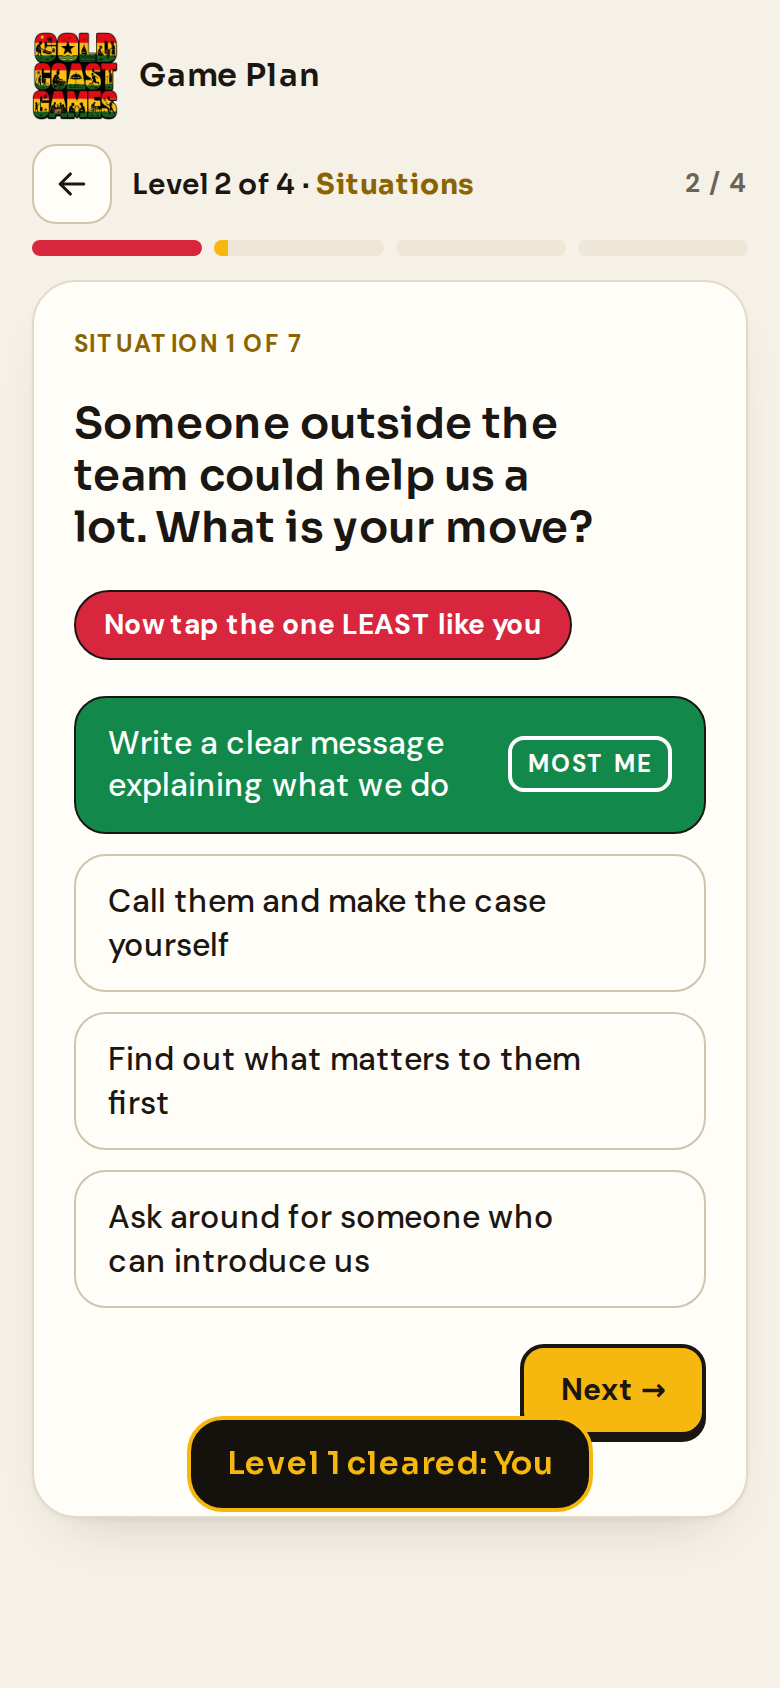
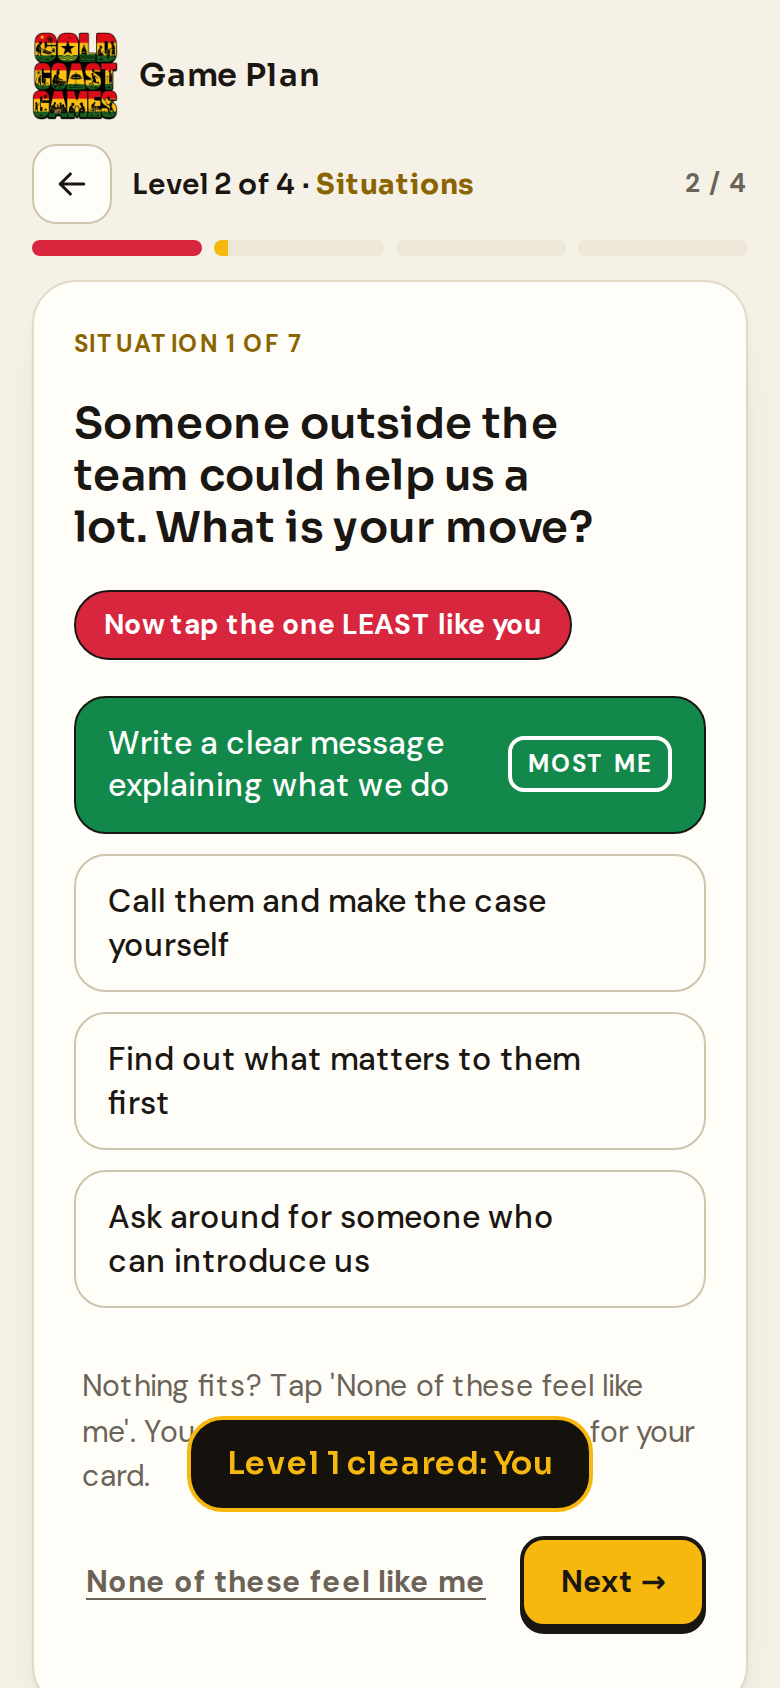
Situations: 'None of these feel like me' skip; card needs four of seven
Claude-Session: https://claude.ai/code/session_01JE2q3PibkVT4seoSptK9bV

Changed region(s): [[0.0615, 0.8009, 0.9538, 0.9858], [0.4308, 0.7701, 0.9231, 0.8626], [0.0308, 0.8626, 0.0615, 0.8934]]

diff --git a/gcg-game-plan.html b/gcg-game-plan.html
@@ -1125,6 +1125,7 @@ var SCORE={top:5,good:3,curious:1};
 var ITEMS=[["A new project is about to start. What do you do first?", [["Meet everyone involved and make sure they feel included", "welcome"], ["Set up the tools and check that everything works", "fix"], ["Write down who does what and by when", "organise"], ["Get people excited about it", "host"]]], ["Someone outside the team could help us a lot. What is your move?", [["Write a clear message explaining what we do", "write"], ["Call them and make the case yourself", "sell"], ["Find out what matters to them first", "research"], ["Ask around for someone who can introduce us", "connect"]]], ["The team is split on a decision. What do you do?", [["Weigh it up and make the call", "lead"], ["Dig for what worked for others in the same situation", "research"], ["Work out what each option costs", "numbers"], ["Sketch each option so people can see it", "visual"]]], ["A new person joins the team today. What do you do?", [["Walk them through it step by step", "teach"], ["Make sure they feel at home straight away", "welcome"], ["Give them a clear list of what to do and when", "organise"], ["Pair them with the right person on the team", "connect"]]], ["The project is over. Which follow-up job do you take?", [["Write the summary and the thank-you messages", "write"], ["Edit the photos and video", "visual"], ["Count what came in and what went out", "numbers"], ["Talk to people and collect what they thought", "connect"]]], ["Something breaks at the worst moment. What do you do?", [["Keep everyone calm and the mood up", "host"], ["Work out what is wrong and fix it", "fix"], ["Decide the plan and tell people who does what", "lead"], ["Switch to the backup plan you prepared", "organise"]]], ["You are planning next month. Which part do you want?", [["Negotiate the price and terms", "sell"], ["Build the timeline and checklist", "organise"], ["Design the flyer and the pages", "visual"], ["Study what others do well", "research"]]], ["Someone is upset about something. What do you do?", [["Listen and calm them down", "welcome"], ["Write back clearly about what we will do", "write"], ["Show the team how to handle this next time", "teach"], ["Check the records and put it right", "numbers"]]], ["You have a free Saturday for GCG. How do you use it?", [["Learn a new tool so the team is faster", "fix"], ["Message ten people in my network about GCG", "connect"], ["Write guides and templates others can use", "write"], ["Clean up the budget sheet", "numbers"]]], ["Which moment would you most like to own?", [["Being up front and leading the moment", "host"], ["Welcoming people as they arrive", "welcome"], ["Deciding what happens when plans change", "lead"], ["Explaining how things work so everyone understands", "teach"]]], ["A partner asks for a plan by Friday. You:", [["Pull the numbers together", "numbers"], ["Present it and win them over", "sell"], ["Lay out the plan so it looks sharp", "visual"], ["Check the facts and sources", "research"]]], ["Which sounds like your best contribution to a team?", [["Setting direction and getting people moving", "lead"], ["Keeping everything on track", "organise"], ["Helping others get better", "teach"], ["Making things run without a hitch", "fix"]]]];
 var ASK=[1,5,3,2,8,9,10];
 var NQ=ITEMS.length;
+var MIN_ASK=4;
 // [id, label, traits, emoji]
 var LIKE=[
  ["talk","Talking and working with people",["welcome","host","connect"],""],
@@ -1708,7 +1709,9 @@ var BUILD={
     });
     card.append(hint,box);
     paint();
-    navRow(card,"Next →",function(){if(!decodeA(S.q[n])){warn("Pick one most like you and one least like you.");return;}next();});
+    if(i===0)card.append(h("p",{class:"sub jhint",text:"Nothing fits? Tap 'None of these feel like me'. You only need four of the seven for your card."}));
+    navRow(card,"Next →",function(){if(!decodeA(S.q[n])){warn("Pick one most like you and one least like you, or skip this one.");return;}next();},
+      {left:h("button",{type:"button",class:"btn link",text:"None of these feel like me",onclick:function(){clearTimeout(advTimer);S.tmp=null;S.q[n]=0;saveDraft();next();}})});
     return hd;
   },
   done:function(card){
@@ -1765,7 +1768,7 @@ var BUILD={
       if(yes.length||g.curious.length)card.append(h("div",{class:"chips"},yes.map(function(i){return h("span",{class:"chip good",text:""+FN[i].name});}),g.curious.map(function(i){return h("span",{class:"chip curious",text:""+FN[i].name});})));
       card.append(h("button",{type:"button",class:"btn",text:"See all "+FNS.filter(function(f){return f.when!=="Later";}).length+" jobs (optional)",onclick:function(){S.returnTo="deck";go("all");}}));
       navRow(card,"Reveal my card ",function(){
-        if(answeredAsk(S.q)<ASK.length){var k=ASK.findIndex(function(n){return !decodeA(S.q[n]);});go("s"+k);setTimeout(function(){warn("One situation still needs an answer.");},50);return;}
+        if(answeredAsk(S.q)<MIN_ASK){var k=ASK.findIndex(function(n){return !decodeA(S.q[n]);});go("s"+k);setTimeout(function(){warn("Answer at least "+MIN_ASK+" situations for your card. "+answeredAsk(S.q)+" so far.");},50);return;}
         next();},{big:true});
       return hd;
     }
